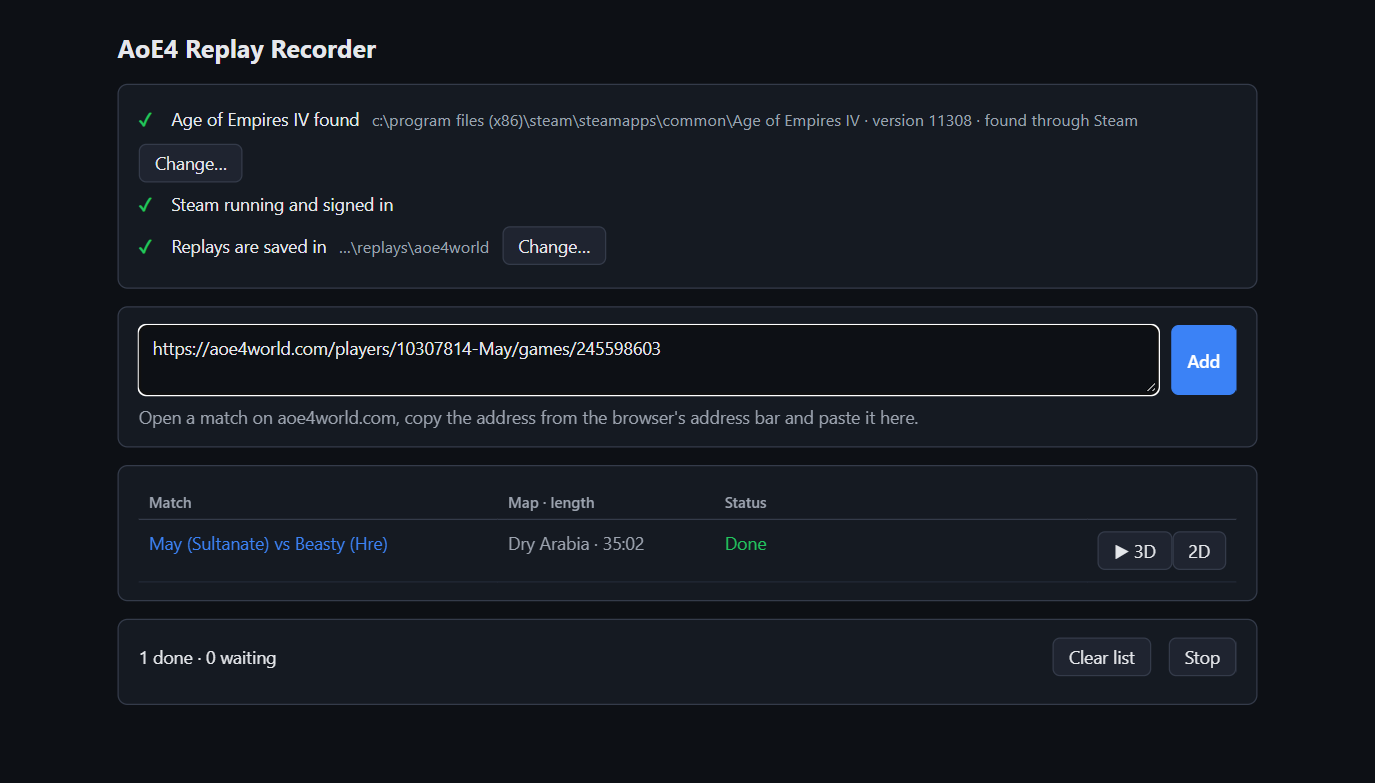
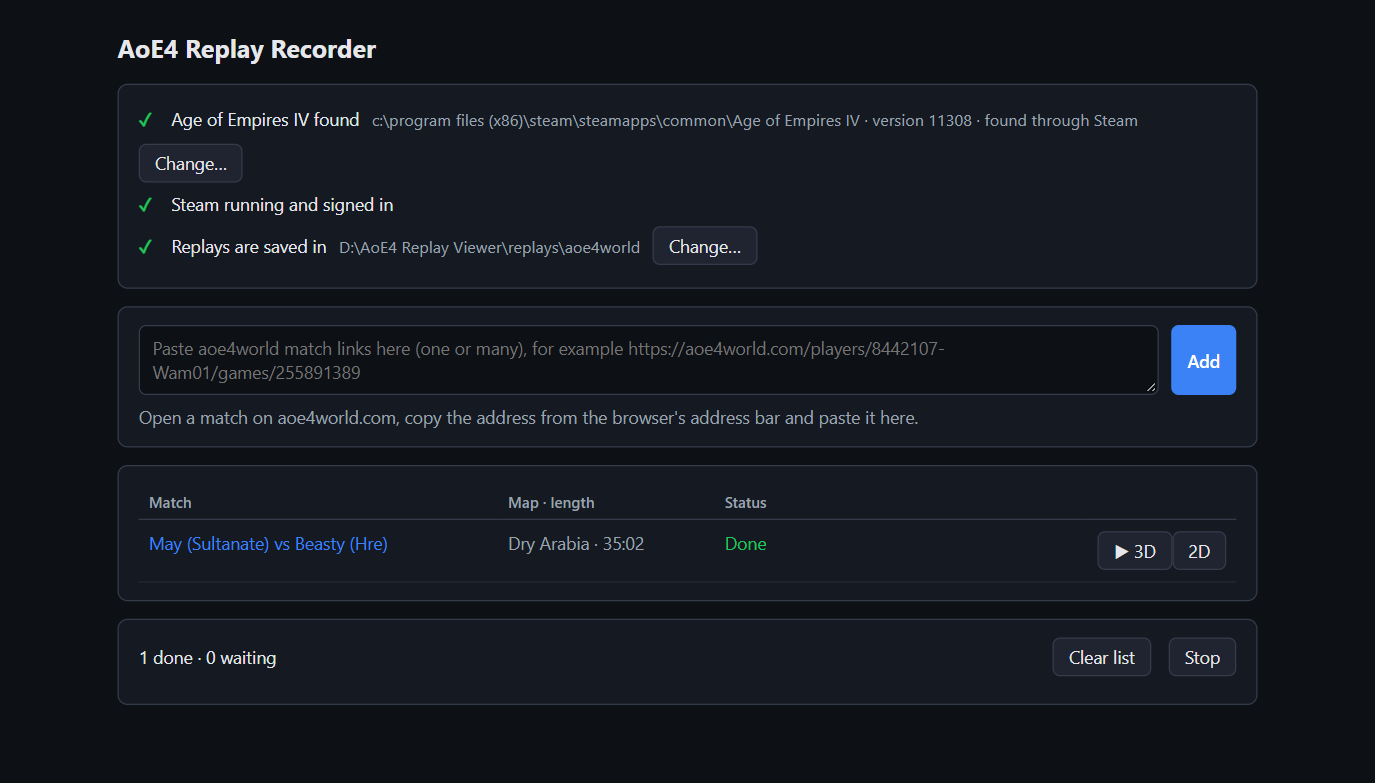
Re-capture README screenshots against the current UI

diff --git a/docs/audit/ui-audit.md b/docs/audit/ui-audit.md
@@ -2,7 +2,7 @@
 
 **Scope.** Read-only review of `viewer/index.html`, `viewer/style.css`, `viewer/app.js`, `viewer/map.js`, `viewer/caster.js`, `viewer/timeline.js`, `viewer/fightpanel.js`, `viewer/ecopanel.js`, `viewer/card.js`, `viewer3d/index.html`, `viewer3d/panels.js`, `viewer3d/hud.js`, `viewer3d/marks.js`, the UI-construction parts of `viewer3d/viewer.js` (grep + line ranges), `viewer3d/portal.js`, `README.md:110-156`, and the four screenshots. No file was modified except this report; `viewer/data/*.js` and `viewer3d/viewer.js` were not read end-to-end.
 
-**Screenshot caveat.** `docs/screenshots/viewer2d.png` and `reference/what-changed/*` show an older 2D chrome: one flat top-bar row with `Attacks / Target fire / Combat FX / Trails / Orders / Eco orders / Labels / Relief / Resources / Army comp / Cameras / Key`, no **Panels**, **HUD details**, **Combat** or **Layers** popovers, and a `Combat FX` checkbox that no longer exists (current 2D splits it into Damage, Heals, Projectiles, Splash rings). That screenshot is still useful for proportions and the map overlays, but its control labels are stale. `viewer3d.png` matches the current 3D shell.
+**Screenshot caveat.** `reference/what-changed/*` shows an older 2D chrome: one flat top-bar row with `Attacks / Target fire / Combat FX / Trails / Orders / Eco orders / Labels / Relief / Resources / Army comp / Cameras / Key`, no **Panels**, **HUD details**, **Combat** or **Layers** popovers, and a `Combat FX` checkbox that no longer exists (current 2D splits it into Damage, Heals, Projectiles, Splash rings). Those screenshots are still useful for proportions and the map overlays, but their control labels are stale. `docs/screenshots/viewer2d.png` and `viewer3d.png` were re-captured against the current UI.
 
 ---
 

diff --git a/docs/audit/parity-2d-3d.md b/docs/audit/parity-2d-3d.md
@@ -166,9 +166,8 @@ product gaps.
    c. "vs 2000+" benchmarks → 3D (load `shared/rv_bench.js`, one call site in the card).
    d. Range rings → 3D (selection already has `RV_FRAME` reach; `map.js:403` is the reference).
    e. Caster HUD: keep 2D-only (broadcast layout does not fit the 3D drawer) but state it in the capability table.
-10. **Documentation gate.** README's parity claims, the screenshots in `docs/screenshots/` (the 2D screenshot predates
-    the current Combat/Layers popovers) and the "what is shared" table must be regenerated from the same registry, or
-    they become the next source of drift.
+10. **Documentation gate.** README's parity claims, the screenshots in `docs/screenshots/` and the "what is shared"
+    table must be regenerated from the same registry, or they become the next source of drift.
 
 ---
 

diff --git a/README.md b/README.md
@@ -7,8 +7,8 @@ in a **2D tactical map** or a **3D battlefield** you can scrub, pause and inspec
 ![3D viewer: May (Delhi Sultanate) and Beasty (HRE) fighting at 21:23 on Dry Arabia](docs/screenshots/viewer3d.png)
 
 <p align="center"><sub>3D viewer: the included showcase match, 21:23. Beasty's men-at-arms, rams and mangonels break into
-May's town; the Fights tab shows that fight's card (value lost, pre-fight odds vs the actual winner, grades) and the
-unit card follows a selected man-at-arms.</sub></p>
+May's town; the Fights tab shows that fight's card (value lost, model estimate vs trade result, micro rating, army swing,
+eco window) and the unit card shows a selected man-at-arms.</sub></p>
 
 ## Why it needs the game
 
